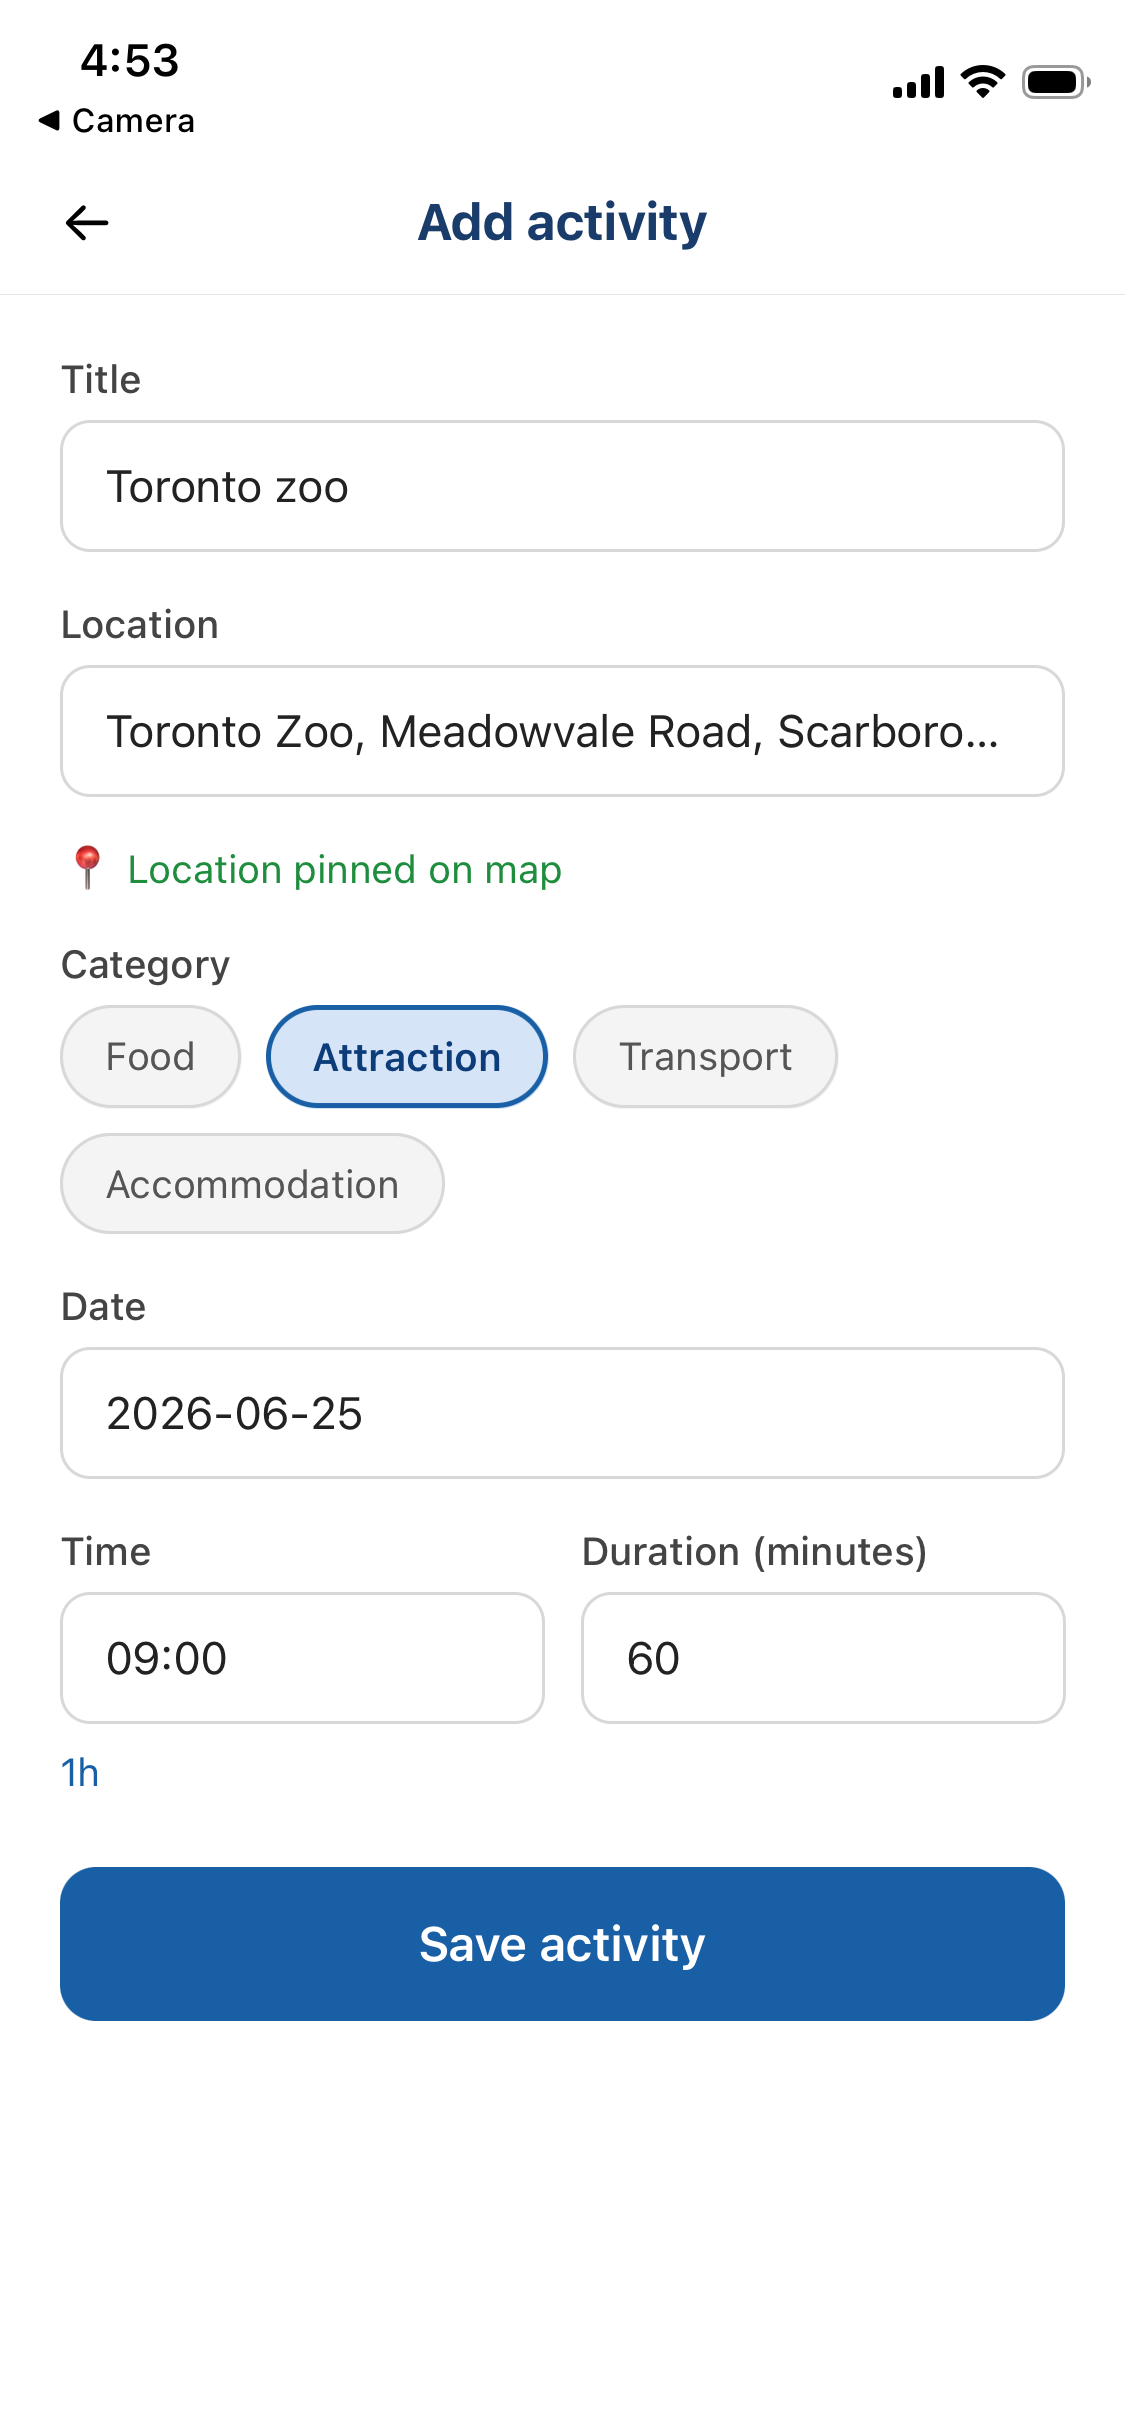
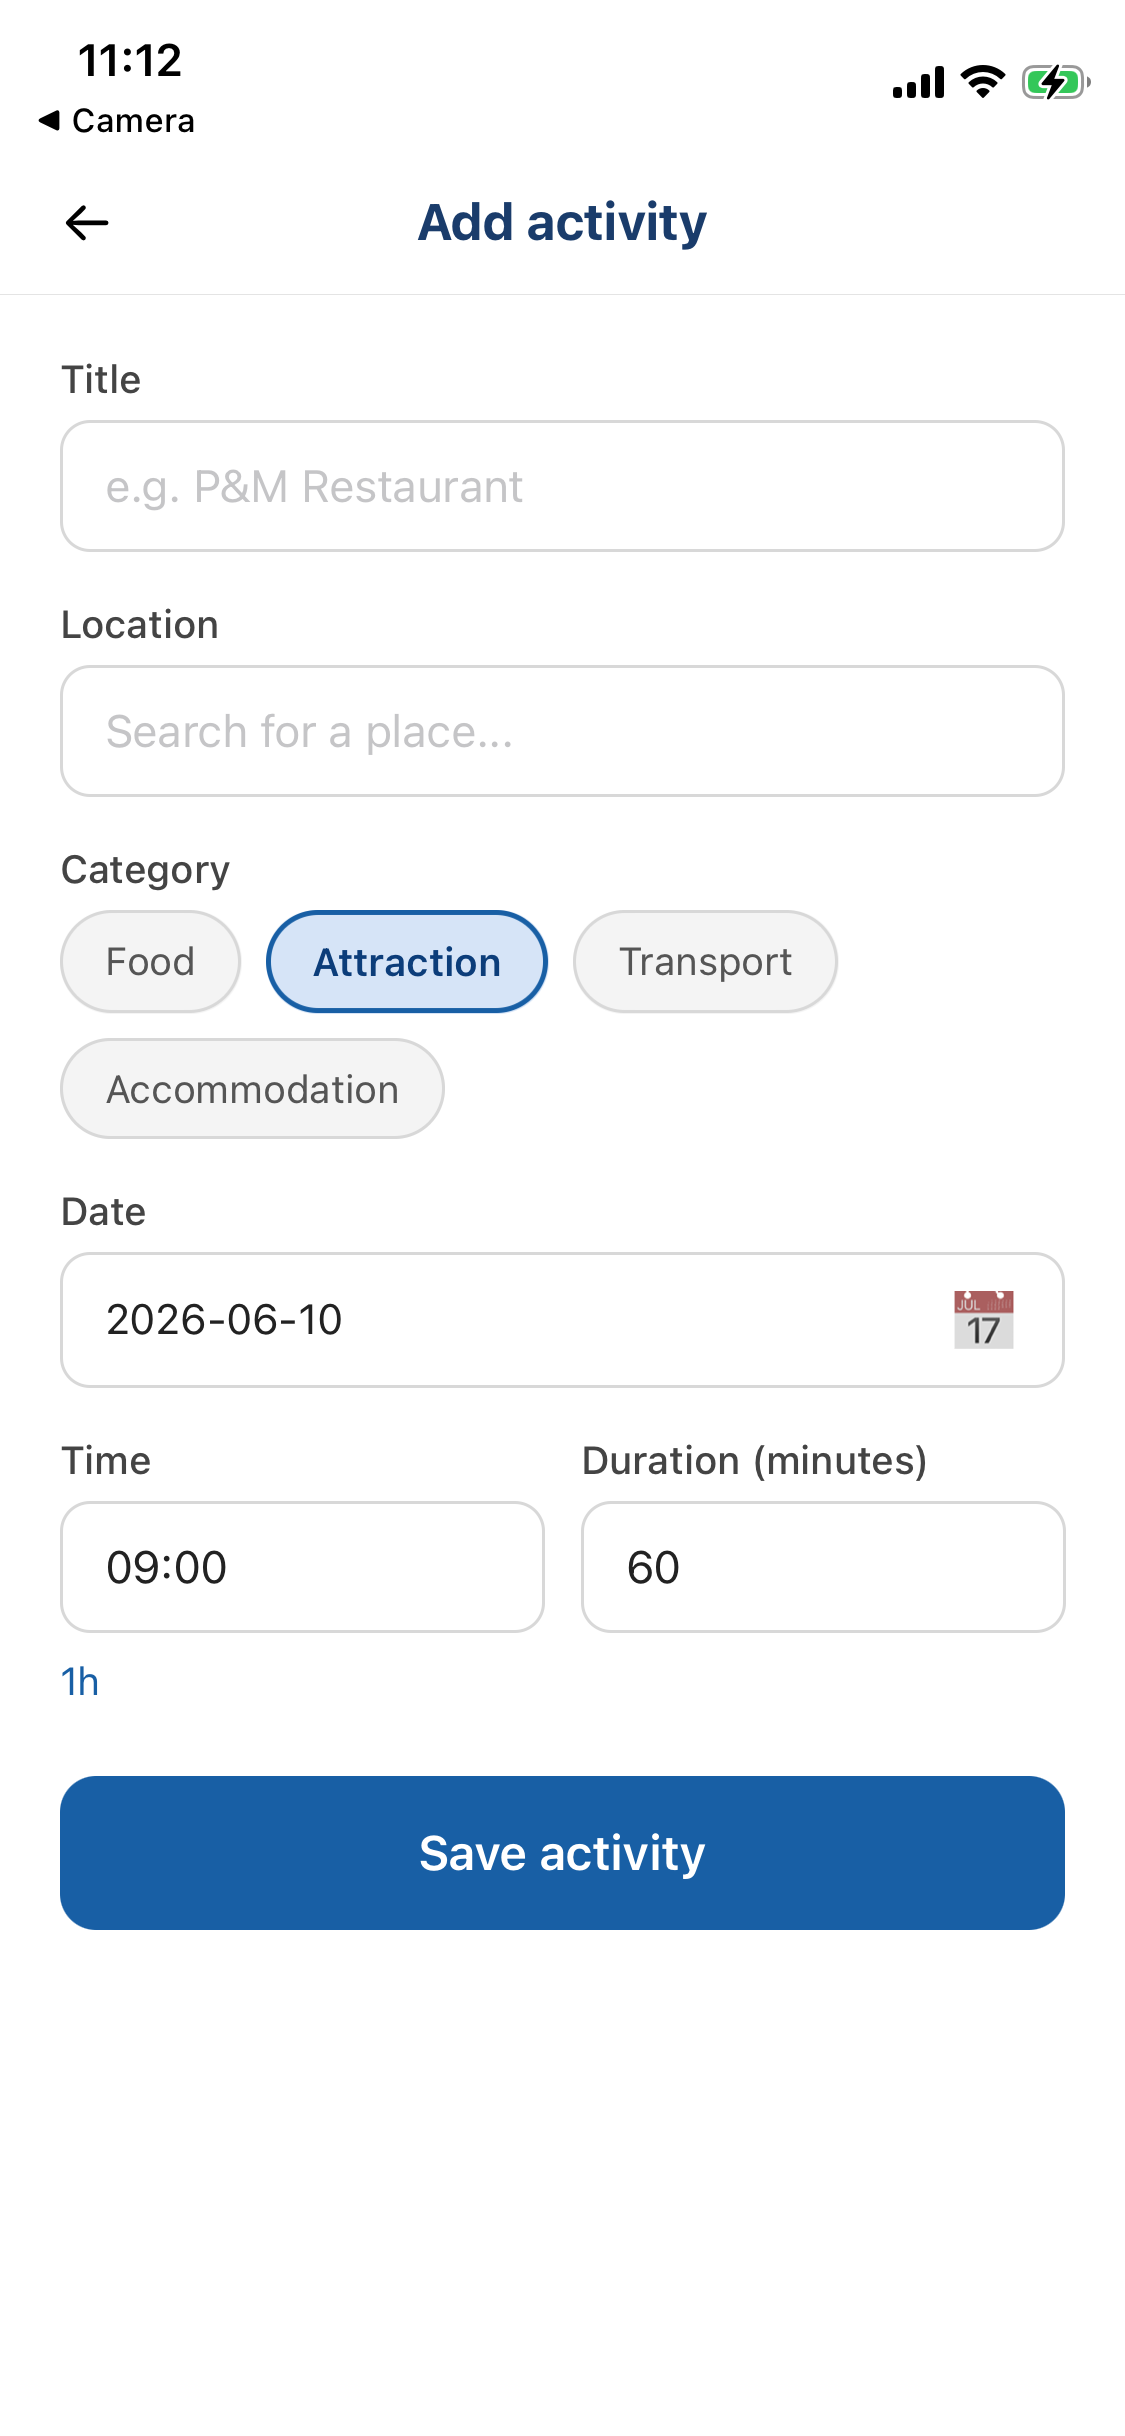
feat: replace date text input with native date picker component

diff --git a/src/components/DatePickerInput.tsx b/src/components/DatePickerInput.tsx
@@ -1,0 +1,165 @@
+import { useState } from 'react';
+import { Pressable, Text, StyleSheet, Platform, Modal, View } from 'react-native';
+import DateTimePicker, { DateTimePickerEvent } from '@react-native-community/datetimepicker';
+
+type Props = {
+  value: string;
+  onChange: (date: string) => void;
+  placeholder: string;
+}
+
+function toDate(value: string): Date {
+  if (/^\d{4}-\d{2}-\d{2}$/.test(value)) {
+    return new Date(value + 'T12:00:00');
+  }
+  return new Date();
+}
+
+function toYMD(date: Date): string {
+  const y = date.getFullYear();
+  const m = String(date.getMonth() + 1).padStart(2, '0');
+  const d = String(date.getDate()).padStart(2, '0');
+  return `${y}-${m}-${d}`;
+}
+
+export default function DatePickerInput({ value, onChange, placeholder}: Props) {
+  const [show, setShow] = useState(false);
+  const [pending, setPending] = useState<Date>(toDate(value));
+
+  function handleChange(_: DateTimePickerEvent, date?: Date) {
+    if (Platform.OS === 'android') {
+      setShow(false);
+      if (date) onChange(toYMD(date));
+    } else {
+      if (date) setPending(date);
+    }
+  }
+
+  function handleDone() {
+    onChange(toYMD(pending));
+    setShow(false);
+  }
+
+  function handleOpen() {
+    setPending(toDate(value));
+    setShow(true);
+  }
+
+  return (
+    <>
+      <Pressable style={styles.input} onPress={handleOpen}>
+        <Text style={[styles.text, !value && styles.placeholder]}>
+          {value || placeholder}
+        </Text>
+        <Text style={styles.icon}>📅</Text>
+      </Pressable>
+
+      {Platform.OS === 'ios' ? (
+        <Modal visible={show} transparent animationType="slide">
+          <Pressable style={styles.backdrop} onPress={() => setShow(false)}>
+            <Pressable style={styles.sheet} onPress={() => {}}>
+              <View style={styles.sheetHandle} />
+              <View style={styles.sheetHeader}>
+                <Pressable onPress={() => setShow(false)}>
+                  <Text style={styles.cancelText}>Cancel</Text>
+                </Pressable>
+                <Text style={styles.sheetTitle}>Select date</Text>
+                <Pressable onPress={handleDone}>
+                  <Text style={styles.doneText}>Done</Text>
+                </Pressable>
+              </View>
+              <DateTimePicker
+                mode="date"
+                display="spinner"
+                value={pending}
+                onChange={handleChange}
+                style={styles.spinner}
+              />
+            </Pressable>
+          </Pressable>
+        </Modal>
+      ) : (
+        show && (
+          <DateTimePicker
+            mode="date"
+            value={toDate(value)}
+            onChange={handleChange}
+          />
+        )
+      )}
+    </>
+  );
+}
+
+const styles = StyleSheet.create({
+  input: {
+    borderWidth: 1,
+    borderColor: '#D8D8D8',
+    borderRadius: 10,
+    paddingHorizontal: 14,
+    paddingVertical: 12,
+    marginBottom: 16,
+    flexDirection: 'row',
+    alignItems: 'center',
+    justifyContent: 'space-between',
+  },
+  text: {
+    fontSize: 14,
+    color: '#222',
+  },
+  placeholder: {
+    color: '#aaa',
+  },
+  icon: {
+    fontSize: 16,
+  },
+  backdrop: {
+    flex: 1,
+    backgroundColor: 'rgba(0,0,0,0.35)',
+    justifyContent: 'flex-end',
+  },
+  sheet: {
+    backgroundColor: '#fff',
+    borderTopLeftRadius: 20,
+    borderTopRightRadius: 20,
+    paddingBottom: 34,
+  },
+  sheetHandle: {
+    width: 36,
+    height: 4,
+    borderRadius: 2,
+    backgroundColor: '#D0D0D0',
+    alignSelf: 'center',
+    marginTop: 10,
+    marginBottom: 4,
+  },
+  sheetHeader: {
+    flexDirection: 'row',
+    alignItems: 'center',
+    justifyContent: 'space-between',
+    paddingHorizontal: 20,
+    paddingVertical: 12,
+    borderBottomWidth: StyleSheet.hairlineWidth,
+    borderBottomColor: '#E4E4E4',
+  },
+  sheetTitle: {
+    fontSize: 16,
+    fontWeight: '600',
+    color: '#1A3C6B',
+  },
+  cancelText: {
+    fontSize: 15,
+    color: '#888',
+    width: 60,
+  },
+  doneText: {
+    fontSize: 15,
+    fontWeight: '600',
+    color: '#185FA5',
+    width: 60,
+    textAlign: 'right',
+  },
+  spinner: {
+    width: '100%',
+  },
+});

diff --git a/app/(traveler)/CreateTripScreen.tsx b/app/(traveler)/CreateTripScreen.tsx
@@ -4,6 +4,7 @@ import { SafeAreaView } from 'react-native-safe-area-context';
 import { useRouter } from 'expo-router';
 import { useAuth } from '../../src/context/AuthContext';
 import { createTrip } from '../../src/services/trips';
+import DatePickerInput from '../../src/components/DatePickerInput';
 
 function daysBetween(start: string, end: string): number {
   const startTime = new Date(start).getTime();
@@ -120,21 +121,11 @@ export default function CreateTripScreen() {
         <View style={styles.dateRow}>
           <View style={styles.dateCol}>
             <Text style={styles.label}>Start date</Text>
-            <TextInput
-              style={styles.input}
-              placeholder="YYYY-MM-DD"
-              value={startDate}
-              onChangeText={setStartDate}
-            />
+            <DatePickerInput value={startDate} onChange={setStartDate} placeholder="YYYY-MM-DD"/>
           </View>
           <View style={styles.dateCol}>
             <Text style={styles.label}>End date</Text>
-            <TextInput
-              style={styles.input}
-              placeholder="YYYY-MM-DD"
-              value={endDate}
-              onChangeText={setEndDate}
-            />
+            <DatePickerInput value={endDate} onChange={setEndDate} placeholder="YYYY-MM-DD" />
           </View>
         </View>
 

diff --git a/app/(traveler)/AddActivityScreen.tsx b/app/(traveler)/AddActivityScreen.tsx
@@ -11,6 +11,7 @@ import { SafeAreaView } from 'react-native-safe-area-context';
 import { useRouter, useLocalSearchParams } from 'expo-router';
 import { createActivity } from '../../src/services/activities';
 import { getTrip } from '../../src/services/trips';
+import DatePickerInput from '../../src/components/DatePickerInput';
 import { searchPlaces, getPlaceCoordinates, PlaceSuggestion } from '../../src/services/places';
 import { ActivityCategory, Coordinates } from '../../src/types/Activity';
 import { CATEGORY_COLORS, formatDuration } from './ActivitiesScreen';
@@ -192,12 +193,7 @@ export default function AddActivityScreen() {
         </View>
 
         <Text style={styles.label}>Date</Text>
-        <TextInput
-          style={styles.input}
-          placeholder="YYYY-MM-DD"
-          value={date}
-          onChangeText={setDate}
-        />
+        <DatePickerInput value={date} onChange={setDate} placeholder="YYYY-MM-DD" />
 
         <View style={styles.row}>
           <View style={{ flex: 1 }}>

diff --git a/app/(traveler)/EditActivityScreen.tsx b/app/(traveler)/EditActivityScreen.tsx
@@ -13,6 +13,7 @@ import { SafeAreaView } from 'react-native-safe-area-context';
 import { useRouter, useLocalSearchParams } from 'expo-router';
 import { getActivity, updateActivity, deleteActivity } from '../../src/services/activities';
 import { Activity, ActivityCategory } from '../../src/types/Activity';
+import DatePickerInput from '../../src/components/DatePickerInput';
 import { CATEGORY_COLORS, formatDuration } from './ActivitiesScreen';
 
 const CATEGORIES: ActivityCategory[] = [
@@ -187,12 +188,7 @@ export default function EditActivityScreen() {
         </View>
 
         <Text style={styles.label}>Date</Text>
-        <TextInput
-          style={styles.input}
-          value={date}
-          onChangeText={setDate}
-          placeholder="YYYY-MM-DD"
-        />
+        <DatePickerInput value={date} onChange={setDate} placeholder="YYYY-MM-DD" />
 
         <View style={styles.row}>
           <View style={{ flex: 1 }}>

diff --git a/README.md b/README.md
@@ -42,13 +42,13 @@ A mobile app for planning, organizing, and remembering every personal trip — b
 
 | Home | Create trip | Trip summary |
 |------|-------------|-------------|
-| <img src="assets/Home.PNG" width="200" style="margin-right:45px"/> | <img src="assets/Createtrip.PNG" width="200"/> | <img src="assets/TripSummary.PNG?v=2" width="200"/> |
+| <img src="assets/Home.PNG" width="200" style="margin-right:45px"/> | <img src="assets/Createtrip.PNG?v=2" width="200"/> | <img src="assets/TripSummary.PNG?v=2" width="200"/> |
 | All trips listed with status badges | Name, destinations, date range, budget | Budget bar and cost estimates breakdown |
 
 
 | Activities | Add activity | Edit activity |
 |---------|-------|---------|
-| <img src="assets/Activities.PNG?v=2" width="200"/> | <img src="assets/Add-activity.PNG?v=2" width="200"/> | <img src="assets/Edit-activity.PNG" width="200"/> |
+| <img src="assets/Activities.PNG?v=2" width="200"/> | <img src="assets/Add-activity.PNG?v=3" width="200"/> | <img src="assets/Edit-activity.PNG?v=2" width="200"/> |
 | Day-grouped list with category color dots | Title, location, category, date, time, duration | Update fields, mark as booked, and delete |
 
 | Trip Map |
